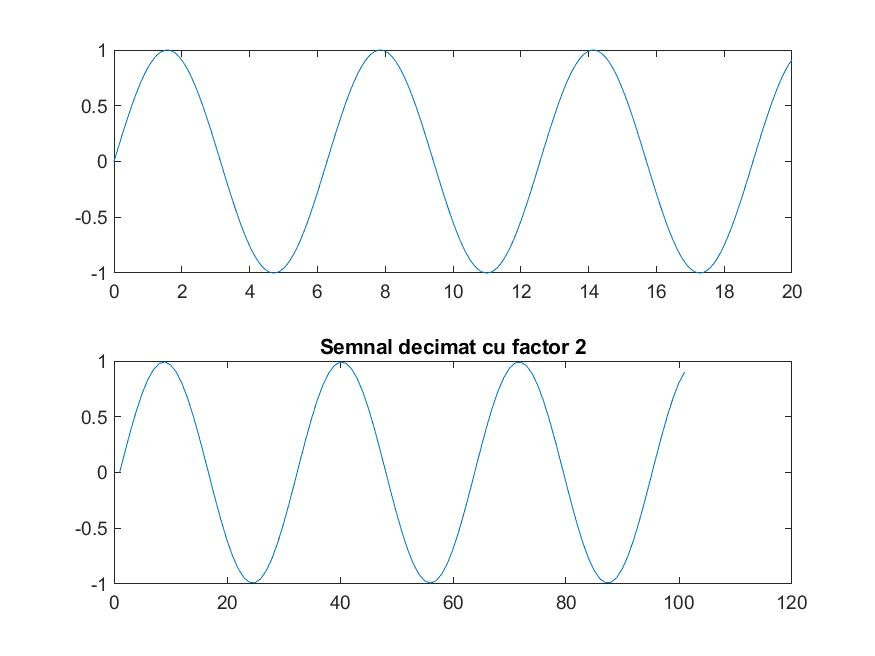
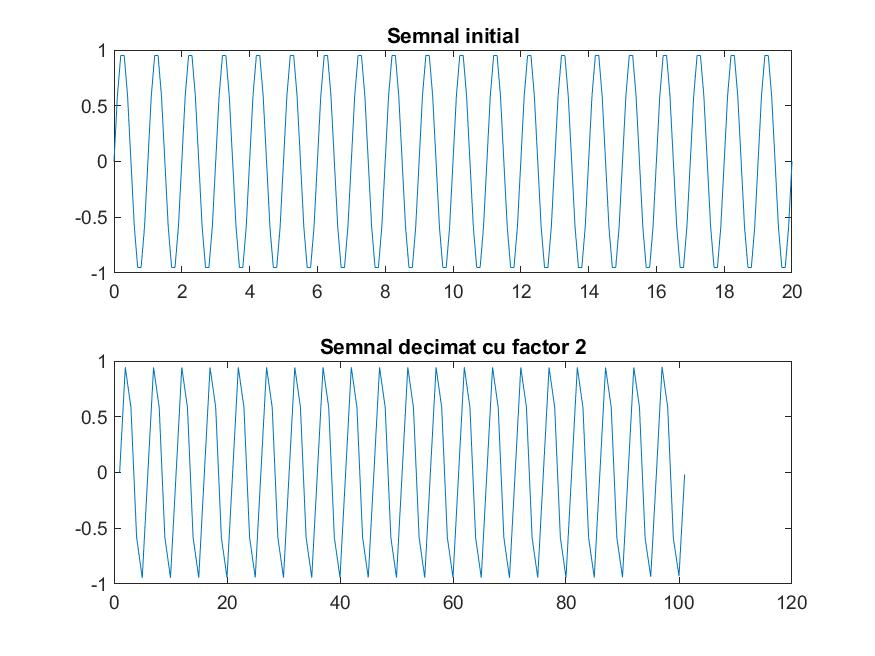
Add files via upload

Changed region(s): [[0.1234, 0.0305, 0.8949, 0.4268], [0.1234, 0.5488, 0.8023, 0.8841]]

diff --git a/Pasul_2.m b/Pasul_2.m
@@ -2,13 +2,14 @@
 %% a) Decimarea inseamna reducerea frecventei de esantionare cu un factor M
 lungime = 20;
 suport_A = 0:0.1:lungime;
-semnal = sin(suport_A);
+semnal = sin(2 * pi * suport_A);
 semnal_decimat_2 = decimare(semnal, 2);
 semnal_decimat_3 = decimare(semnal, 3);
 
 figure(1);
 subplot(2,1,1);
 plot(suport_A, semnal);
+title('Semnal initial');
 subplot(2,1,2);
 plot(semnal_decimat_2);
 title('Semnal decimat cu factor 2');
@@ -17,6 +18,7 @@ saveas(gcf, 'Pas_2_a_2.jpg');
 figure(2);
 subplot(2,1,1);
 plot(suport_A, semnal);
+title('Semnal initial');
 subplot(2,1,2);
 plot(semnal_decimat_3);
 title('Semnal decimat cu factor 3');
@@ -25,30 +27,60 @@ saveas(gcf, 'Pas_2_a_3.jpg');
 %% b) 
 w1 = pi/10;
 w2 = pi/6;
-suport_B = 0:1:100;
-x = 2 * sin(w1 * suport_B) + sin(w2 * suport_B);
+suport_B = 0:1000;
+x = 2 * sin(2 * pi * w1 * suport_B) + sin(2 * pi * w2 * suport_B);
 x_decimat_2 = decimate(x,2);
 x_decimat_3 = decimate(x,3);
 
-X = freqz(x,1,suport_B);
-X_2 = freqz(x_decimat_2,1,suport_B);
-X_3 = freqz(x_decimat_3,1,suport_B);
+X = fft(x);
+X_2 = fft(x_decimat_2);
+X_3 = fft(x_decimat_3);
 
 figure(3);
-subplot(3,1,1);
-stem(suport_B, X);
-title('semnal x');
-subplot(3,1,2);
-stem(suport_B, X_2);
-title('semnal decimat cu 2');
-subplot(3,1,3);
-stem(suport_B, X_3);
-title('semnal decimat cu 3');
+subplot(3,2,1);
+plot(db(x));
+title('Semnal sinusoidal');
+subplot(3,2,3);
+plot(db(x_decimat_2));
+title('Semnalul decimat cu 2');
+subplot(3,2,5);
+plot(db(x_decimat_3));
+title('Semnalul decimat cu 3');
+
+subplot(3,2,2);
+plot(db(X));
+title('Spectrul semnalului sinusoidal');
+subplot(3,2,4);
+plot(db(X_2));
+title('Spectrul semnalului decimat cu 2');
+subplot(3,2,6);
+plot(db(X_3));
+title('Spectrul semnalului decimat cu 3');
 saveas(gcf, 'Pas_2_b.jpg');
 
 %% c)
-W = [0 pi/5 pi/4 1];
-A = [1 1 0 0 ];
-M = 3;
-h = firpm(M, W, A); 
+N=1000;
+M=2;
+n=0:N-1;
+f1=pi/6;
+f2=pi/10;
+x=2*sin(2*pi*f1*n)+sin(2*pi*f2*n);
+W = [0 0.3/pi 0.4/pi 1];
+A = [1 1 0 0];
+h = firls(49, W, A);
+x=filter(h,1,x);
+figure;
+subplot(3,1,1)
+plot(db(x));
+title('Spectrul Semnalului initial');
+y=decimate(x,M);
+subplot(3,1,2);
+plot(db(y));
+title('Spectrul Semnalului decimat cu 2');
+M=3;
+y=decimate(x,M);
+subplot(3,1,3);
+plot(db(y));
+title('Spectrul Semnalului decimat cu 3')
+
 

diff --git a/Pasul_1.m b/Pasul_1.m
@@ -2,3 +2,7 @@
 %% a)
 m = 16;
 momente_de_esantionare = 0:m:15;
+
+for i = momente_de_esantionare
+    
+end
